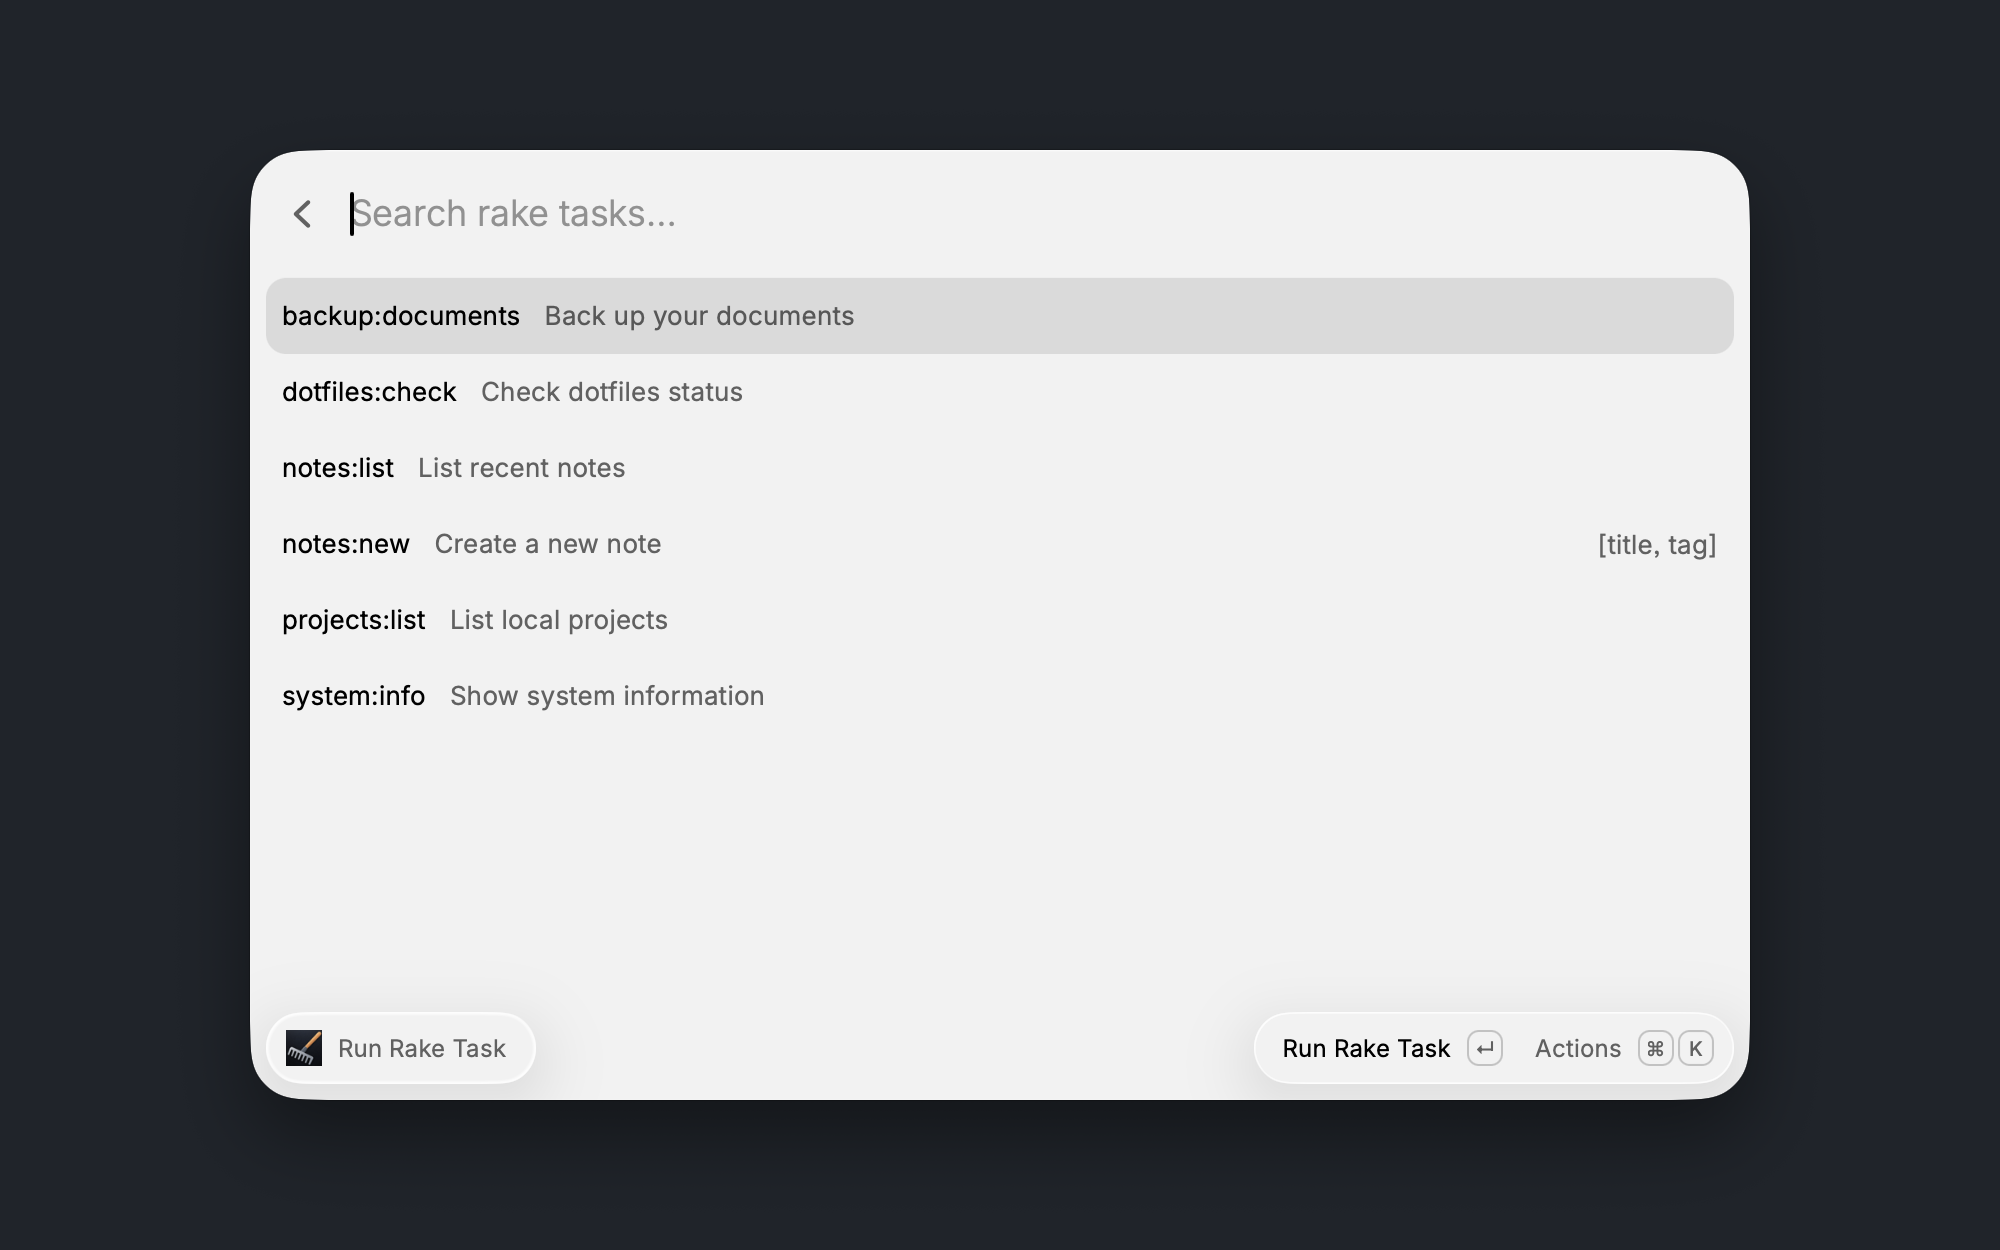
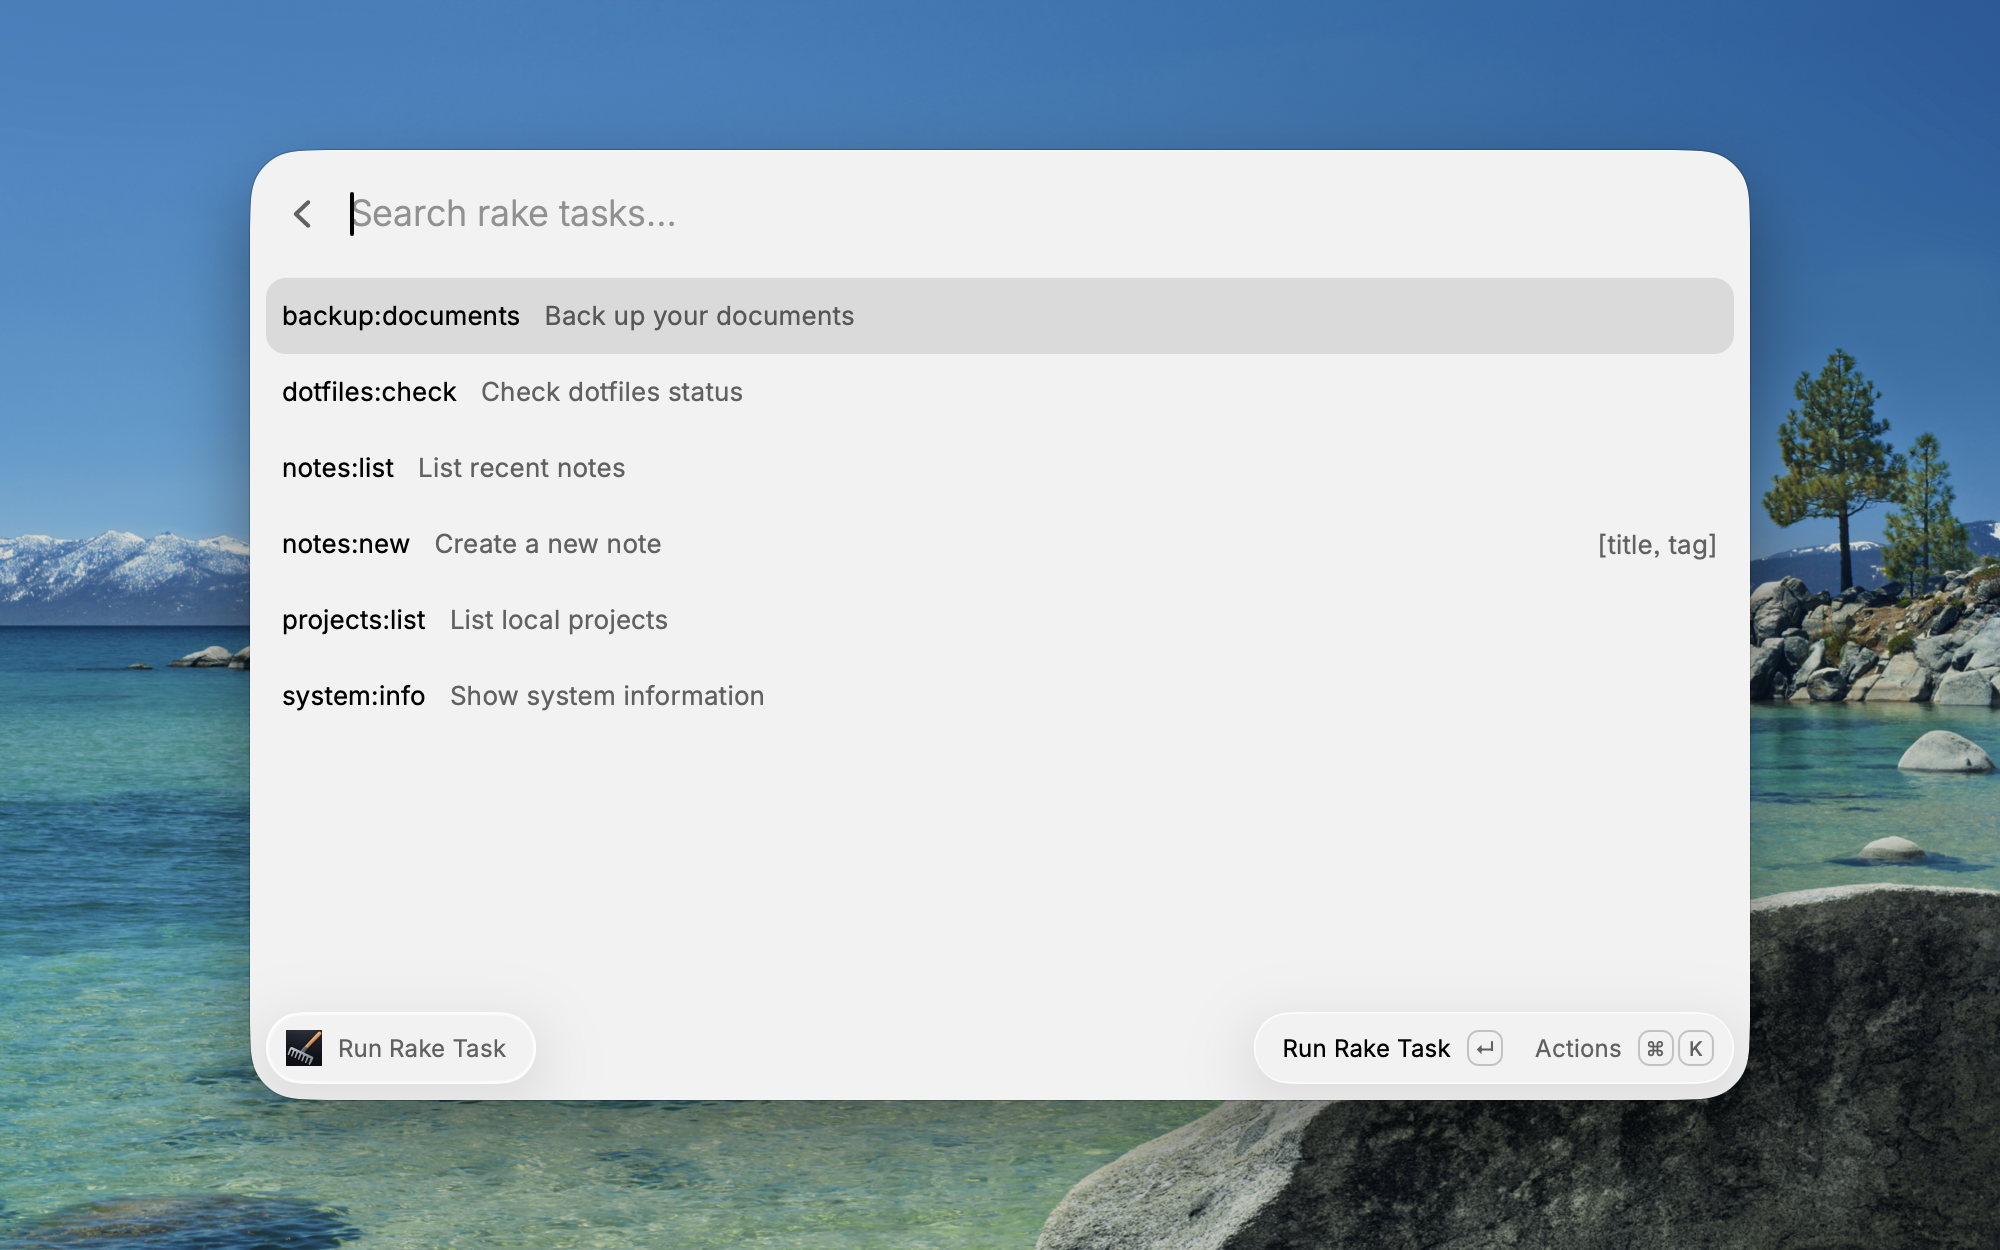
Address Rake extension review feedback

diff --git a/tests/rake-utils.test.ts b/tests/rake-utils.test.ts
@@ -1,9 +1,95 @@
 import assert from "node:assert/strict";
-import { mkdtemp, readFile, rm } from "node:fs/promises";
-import { tmpdir } from "node:os";
+import { mkdtemp, readFile, realpath, rm, symlink, writeFile } from "node:fs/promises";
+import { homedir, tmpdir } from "node:os";
 import { join } from "node:path";
 import test from "node:test";
-import { parseRakeTaskLine, runProcess } from "../src/rake-utils.ts";
+import { parseRakeTaskLine, resolveRakePreferences, runProcess, runRake } from "../src/rake-utils.ts";
+
+test("Rake preferences default to PATH and home, and expand leading home paths", () => {
+  for (const preferences of [{}, { rakePath: "", directory: "" }, { rakePath: "  ", directory: "~" }]) {
+    assert.deepEqual(resolveRakePreferences(preferences), { command: "rake", cwd: homedir() });
+  }
+  assert.deepEqual(resolveRakePreferences({ rakePath: "~/.rbenv/shims/rake", directory: "~/My Project" }), {
+    command: join(homedir(), ".rbenv/shims/rake"),
+    cwd: join(homedir(), "My Project"),
+  });
+  assert.deepEqual(resolveRakePreferences({ rakePath: "/opt/My Ruby/rake", directory: "/tmp/project~name" }), {
+    command: "/opt/My Ruby/rake",
+    cwd: "/tmp/project~name",
+  });
+});
+
+test("uses the configured executable and directory for discovery and execution without shell expansion", async (t) => {
+  const cwd = await realpath(await mkdtemp(join(tmpdir(), "rake project ")));
+  t.after(() => rm(cwd, { recursive: true, force: true }));
+  const rakePath = join(cwd, "rake shim; literal");
+  const scriptPath = join(cwd, "fixture.cjs");
+  await symlink(process.execPath, rakePath);
+  await writeFile(join(cwd, "task.txt"), "rake greet[name]  # Say hello");
+  await writeFile(
+    scriptPath,
+    `const fs = require("node:fs");
+     if (process.argv[2] === "-T") {
+       process.stdout.write(fs.readFileSync("task.txt", "utf8"));
+     } else {
+       process.stdout.write(JSON.stringify({ cwd: process.cwd(), args: process.argv.slice(2) }));
+     }`,
+  );
+
+  const preferences = { rakePath, directory: cwd };
+  const lines: string[] = [];
+  await runRake([scriptPath, "-T"], preferences, (line) => lines.push(line));
+  assert.deepEqual(lines.map(parseRakeTaskLine), [{ name: "greet", args: ["name"], description: "Say hello" }]);
+
+  const invocation = "greet[$HOME; $(printf injected),`printf injected`]";
+  const result = await runRake([scriptPath, invocation], preferences);
+  assert.deepEqual(JSON.parse(result.stdout), { cwd, args: [invocation] });
+});
+
+test("missing Rake executables point users to Rake Executable preferences", async (t) => {
+  const directory = await mkdtemp(join(tmpdir(), "rake-missing-executable-"));
+  t.after(() => rm(directory, { recursive: true, force: true }));
+  await assert.rejects(runRake(["-T"], { rakePath: join(directory, "missing-rake"), directory }), (error: Error) => {
+    assert.equal(error.message, "rake not found — set Rake Executable in preferences.");
+    assert.ok(error.cause instanceof Error && "code" in error.cause);
+    assert.equal(error.cause.code, "ENOENT");
+    return true;
+  });
+});
+
+test("missing directories and files used as directories point to Rake Directory preferences", async (t) => {
+  const cwd = await mkdtemp(join(tmpdir(), "rake-invalid-directory-"));
+  t.after(() => rm(cwd, { recursive: true, force: true }));
+  const file = join(cwd, "file");
+  await writeFile(file, "not a directory");
+
+  for (const directory of [join(cwd, "missing"), file]) {
+    await assert.rejects(runRake(["-T"], { rakePath: process.execPath, directory }), (error: Error) => {
+      assert.match(error.message, /Set Rake Directory in preferences/);
+      assert.ok(error.message.includes(directory));
+      assert.doesNotMatch(error.message, /rake not found/);
+      return true;
+    });
+  }
+});
+
+test("Rake task failures retain their diagnostics instead of suggesting an executable change", async () => {
+  await assert.rejects(
+    runRake(["-e", 'console.error("ENOENT: task input missing"); process.exitCode = 7;'], {
+      rakePath: process.execPath,
+      directory: tmpdir(),
+    }),
+    /exited with code 7\nENOENT: task input missing/,
+  );
+});
+
+test("non-executable Rake paths retain the permission error", async (t) => {
+  const directory = await mkdtemp(join(tmpdir(), "rake-permissions-"));
+  t.after(() => rm(directory, { recursive: true, force: true }));
+  const rakePath = join(directory, "rake");
+  await writeFile(rakePath, "not executable", { mode: 0o644 });
+  await assert.rejects(runRake(["-T"], { rakePath, directory }), { code: "EACCES" });
+});
 
 test("parses names containing spaces, namespaces, arguments, and descriptions", () => {
   assert.deepEqual(parseRakeTaskLine("rake my task  # Run a task with spaces"), {

diff --git a/src/rake.tsx b/src/rake.tsx
@@ -1,13 +1,19 @@
-import { Action, ActionPanel, Form, Keyboard, List, Toast, showToast } from "@raycast/api";
-import { homedir } from "node:os";
+import {
+  Action,
+  ActionPanel,
+  Form,
+  Keyboard,
+  List,
+  Toast,
+  getPreferenceValues,
+  openExtensionPreferences,
+  showToast,
+} from "@raycast/api";
 import { useEffect, useState } from "react";
-import { parseRakeTaskLine, runProcess, type RakeTask } from "./rake-utils";
+import { parseRakeTaskLine, runRake, type RakeTask } from "./rake-utils";
 
 async function rake(args: string[], onStdoutLine?: (line: string) => void) {
-  return runProcess("rake", args, {
-    cwd: homedir(),
-    onStdoutLine,
-  });
+  return runRake(args, getPreferenceValues<Preferences>(), onStdoutLine);
 }
 
 async function runTask(invocation: string) {
@@ -25,7 +31,7 @@ async function runTask(invocation: string) {
   } catch (error) {
     toast.style = Toast.Style.Failure;
     toast.title = `rake ${invocation} failed`;
-    toast.message = String(error);
+    toast.message = error instanceof Error ? error.message : String(error);
   }
 }
 
@@ -73,10 +79,11 @@ export default function Command() {
 
       setTasks(tasks);
     } catch (error) {
+      setTasks([]);
       await showToast({
         style: Toast.Style.Failure,
         title: "rake -T failed",
-        message: String(error),
+        message: error instanceof Error ? error.message : String(error),
       });
     } finally {
       setIsLoading(false);
@@ -85,6 +92,22 @@ export default function Command() {
 
   return (
     <List isLoading={isLoading} searchBarPlaceholder="Search rake tasks...">
+      <List.EmptyView
+        title={isLoading ? "Loading Tasks..." : tasks.length > 0 ? "No Matching Tasks" : "No Rake Tasks"}
+        description={
+          isLoading
+            ? "Reading tasks from Rake Directory..."
+            : tasks.length > 0
+              ? "Try another search."
+              : "Check Rake Executable and Rake Directory in preferences, then reload tasks."
+        }
+        actions={
+          <ActionPanel>
+            <Action title="Reload Tasks" shortcut={Keyboard.Shortcut.Common.Refresh} onAction={loadTasks} />
+            <Action title="Open Extension Preferences" onAction={openExtensionPreferences} />
+          </ActionPanel>
+        }
+      />
       {tasks.map((task) => (
         <List.Item
           key={`${task.name}[${task.args.join(",")}]`}
@@ -100,6 +123,7 @@ export default function Command() {
               )}
 
               <Action title="Reload Tasks" shortcut={Keyboard.Shortcut.Common.Refresh} onAction={loadTasks} />
+              <Action title="Open Extension Preferences" onAction={openExtensionPreferences} />
             </ActionPanel>
           }
         />

diff --git a/src/rake-utils.ts b/src/rake-utils.ts
@@ -1,4 +1,7 @@
 import { spawn } from "node:child_process";
+import { stat } from "node:fs/promises";
+import { homedir } from "node:os";
+import { join } from "node:path";
 import { createInterface } from "node:readline";
 
 export type RakeTask = {
@@ -6,6 +9,43 @@ export type RakeTask = {
   args: string[];
   description: string;
 };
+
+type RakePreferences = {
+  rakePath?: string;
+  directory?: string;
+};
+
+function expandHomePath(path: string) {
+  if (path === "~") return homedir();
+  return path.startsWith("~/") ? join(homedir(), path.slice(2)) : path;
+}
+
+export function resolveRakePreferences(preferences: RakePreferences) {
+  return {
+    command: expandHomePath(preferences.rakePath?.trim() || "rake"),
+    cwd: expandHomePath(preferences.directory || "~"),
+  };
+}
+
+export async function runRake(args: string[], preferences: RakePreferences, onStdoutLine?: (line: string) => void) {
+  const { command, cwd } = resolveRakePreferences(preferences);
+  // spawn also reports ENOENT for a missing cwd. Check it before diagnosing the executable.
+  const directory = await stat(cwd).catch((error: unknown) => {
+    throw new Error(`Cannot access Rake Directory: ${cwd}. Set Rake Directory in preferences.`, { cause: error });
+  });
+  if (!directory.isDirectory()) {
+    throw new Error(`Rake Directory is not a directory: ${cwd}. Set Rake Directory in preferences.`);
+  }
+
+  try {
+    return await runProcess(command, args, { cwd, onStdoutLine });
+  } catch (error) {
+    if (error instanceof Error && "code" in error && error.code === "ENOENT") {
+      throw new Error("rake not found — set Rake Executable in preferences.", { cause: error });
+    }
+    throw error;
+  }
+}
 
 export function parseRakeTaskLine(line: string): RakeTask | null {
   const match = line.match(/^rake\s+(.+?)(?:\[([^\]]*)\])?(?:\s+#\s*(.*))?$/);

diff --git a/README.md b/README.md
@@ -1,15 +1,23 @@
 # Rake
 
 Search and run Rake tasks from Raycast on macOS.
-The extension lists the tasks returned by `rake -T` in your home directory and provides a form for tasks that accept arguments.
+The extension lists the tasks returned by `rake -T` in your configured directory (your home directory by default) and provides a form for tasks that accept arguments.
 
 [日本語](README.ja.md)
 
 ## Requirements and Setup
 
 - Raycast for macOS.
-- Ruby and Rake available in the `PATH` inherited by Raycast.
-- Tasks listed by `rake -T` when run from your home directory.
+- Ruby and Rake installed on your Mac.
+- Tasks listed by `rake -T` when run from your configured directory.
+
+Use **Open Extension Preferences** in the command's action panel to configure:
+
+- **Rake Executable**: the path to your Rake executable or version-manager shim, such as `~/.rbenv/shims/rake`. Leave empty to use `rake` from Raycast's `PATH`.
+- **Rake Directory**: the directory used for both task discovery and execution. Defaults to your home directory (`~`). Select a project directory to use its Rakefile and Ruby version-manager configuration.
+
+Paths starting with `~/` are expanded to your home directory.
+Enter the executable path without shell quotes or command-line arguments, even if it contains spaces.
 
 For example, add a task with a description to `~/Rakefile`:
 
@@ -27,9 +35,10 @@ cd ~
 rake -T
 ```
 
-The extension invokes `rake` directly without starting a shell or loading shell configuration files.
-If Ruby or Rake is available only through shell initialization, such as a Ruby version manager, the extension may not find it even if it works in your terminal.
-Ensure that Raycast's `PATH` includes the executable directories required by your Ruby installation.
+The extension invokes the configured executable directly without starting a shell or loading shell configuration files.
+If you use rbenv, rvm, asdf, or mise, set **Rake Executable** to the appropriate shim or wrapper instead of relying on Raycast's `PATH`.
+You can use `command -v rake` in your terminal to locate it.
+The executable must work without shell initialization; if it depends on other commands being on `PATH`, use a wrapper that sets up the required environment.
 
 ## Usage
 
@@ -41,12 +50,12 @@ A toast shows progress and whether the task succeeded or failed.
 On success, the toast displays standard output, falling back to standard error or `Done` if no output is available.
 For long output, only the final portion is retained for the toast, with an omission notice; output volume does not stop the task.
 
-Use **Reload Tasks** or `⌘R` from a task's action panel after changing your tasks.
-If the task list is empty, reopen the command to reload it.
+Use **Reload Tasks** or `⌘R` after changing your tasks.
+Reload and **Open Extension Preferences** are also available when the task list is empty or loading fails.
+If the toast says `rake not found`, set **Rake Executable** in preferences and reload.
 
 ## Limitations
 
-- All tasks run from your home directory. Selecting a project directory is not supported.
 - Only tasks included in `rake -T` are listed. Add `desc` to tasks that should appear.
 - Argument values containing commas are not supported because arguments are passed in Rake's comma-separated task syntax.
 - Tasks run in the background with captured output. Interactive terminal input is not supported.

diff --git a/CHANGELOG.md b/CHANGELOG.md
@@ -2,6 +2,8 @@
 
 ## [Initial Version] - {PR_MERGE_DATE}
 
-- Search and run Rake tasks from your home directory.
+- Search and run Rake tasks from a configurable directory, defaulting to your home directory.
+- Configure the Rake executable for Ruby version managers and custom installations.
 - Enter task arguments in a form before running a task.
 - Show task progress, results, and errors in Raycast.
+- Reload tasks and open preferences even when no tasks are listed.
